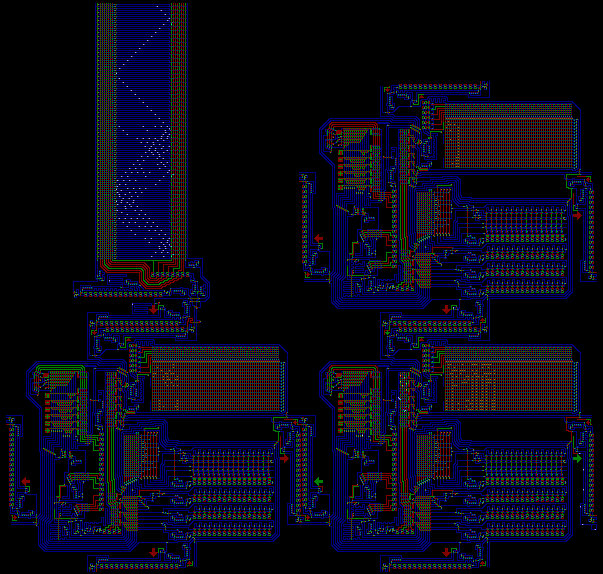
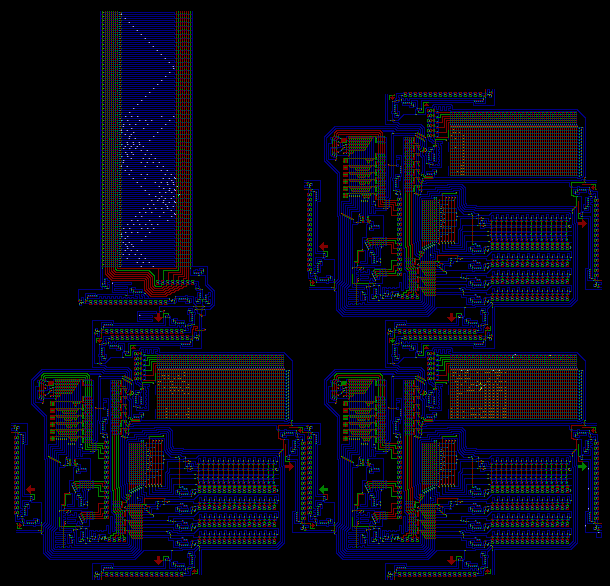
updated screenshot of prime generator

diff --git a/examples.md b/examples.md
@@ -27,4 +27,4 @@ Holds up to 64 16-bit values. Can be extended to hold more.
 ## processor.mc
 The finished microprocessor, with a blank instruction memory.
 ## compute-primes.mc
-Three microprocessors that work together to find prime numbers. A picture of it after 50,000,000 generations is in the root directory of the repository, with the highest prime in its memory being 139.
+Three microprocessors that work together to find prime numbers. A picture of it after 50,000,000 generations is in the root directory of the repository, with the highest prime in its memory being 163.
